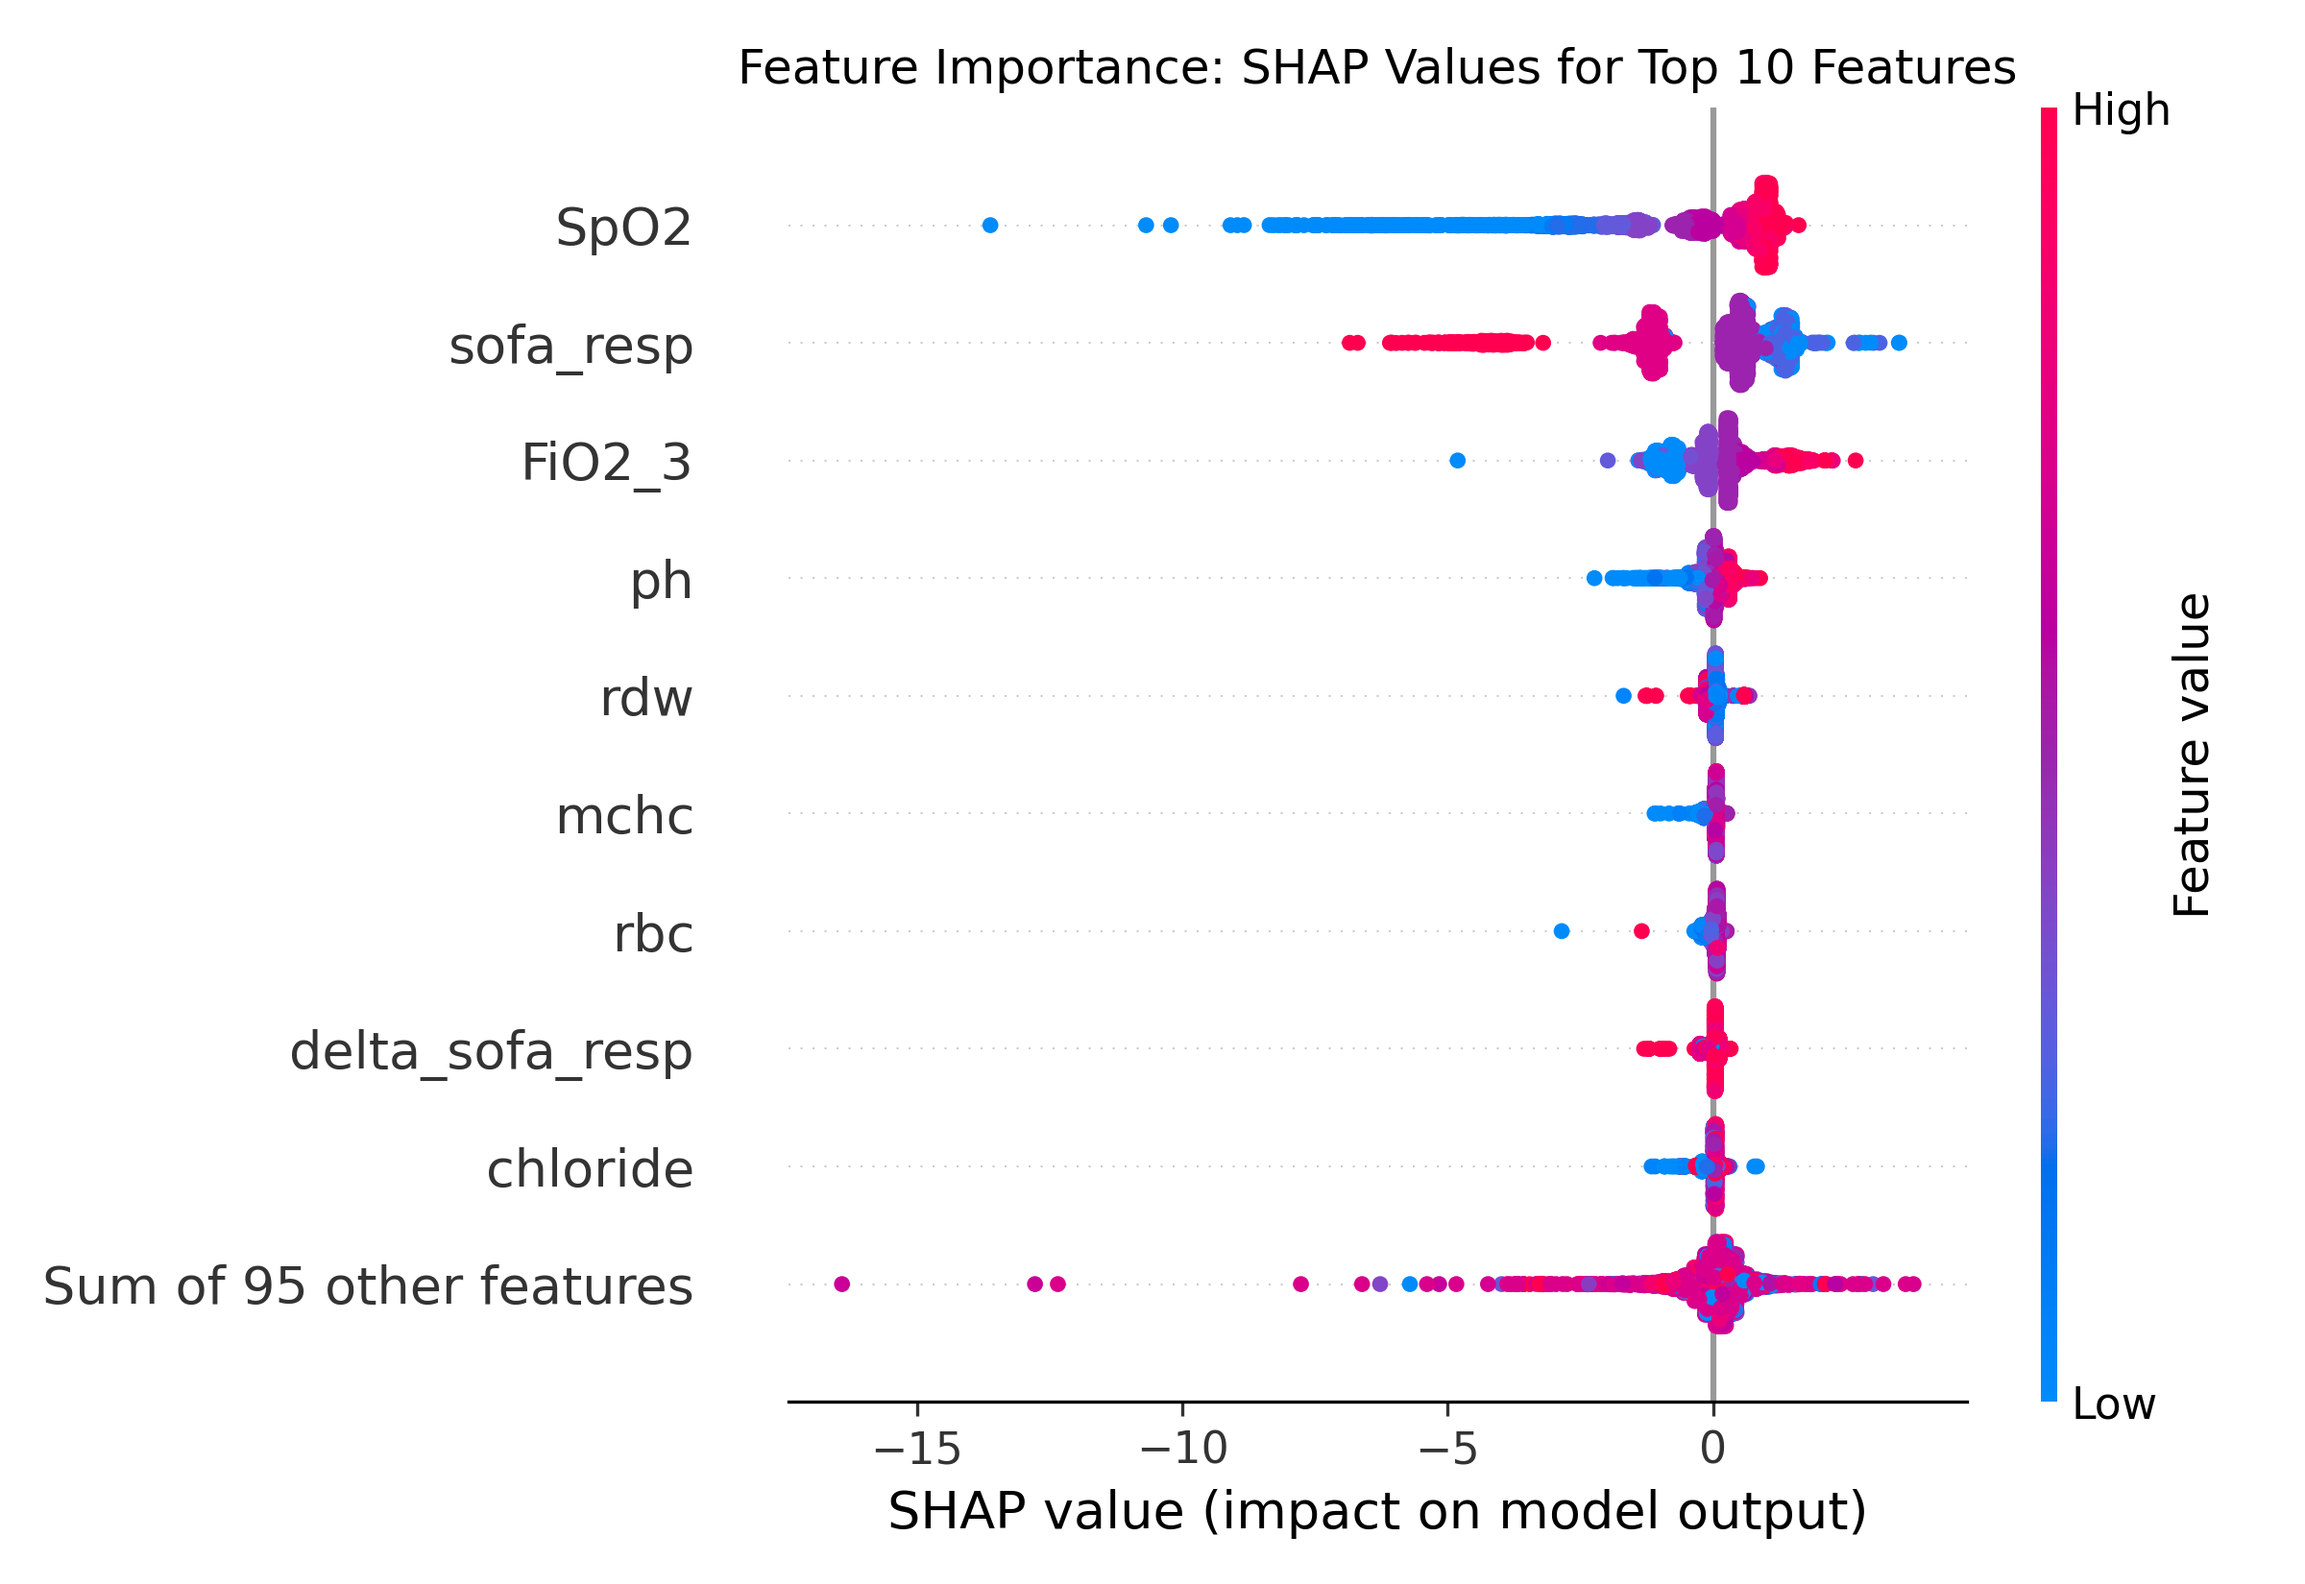
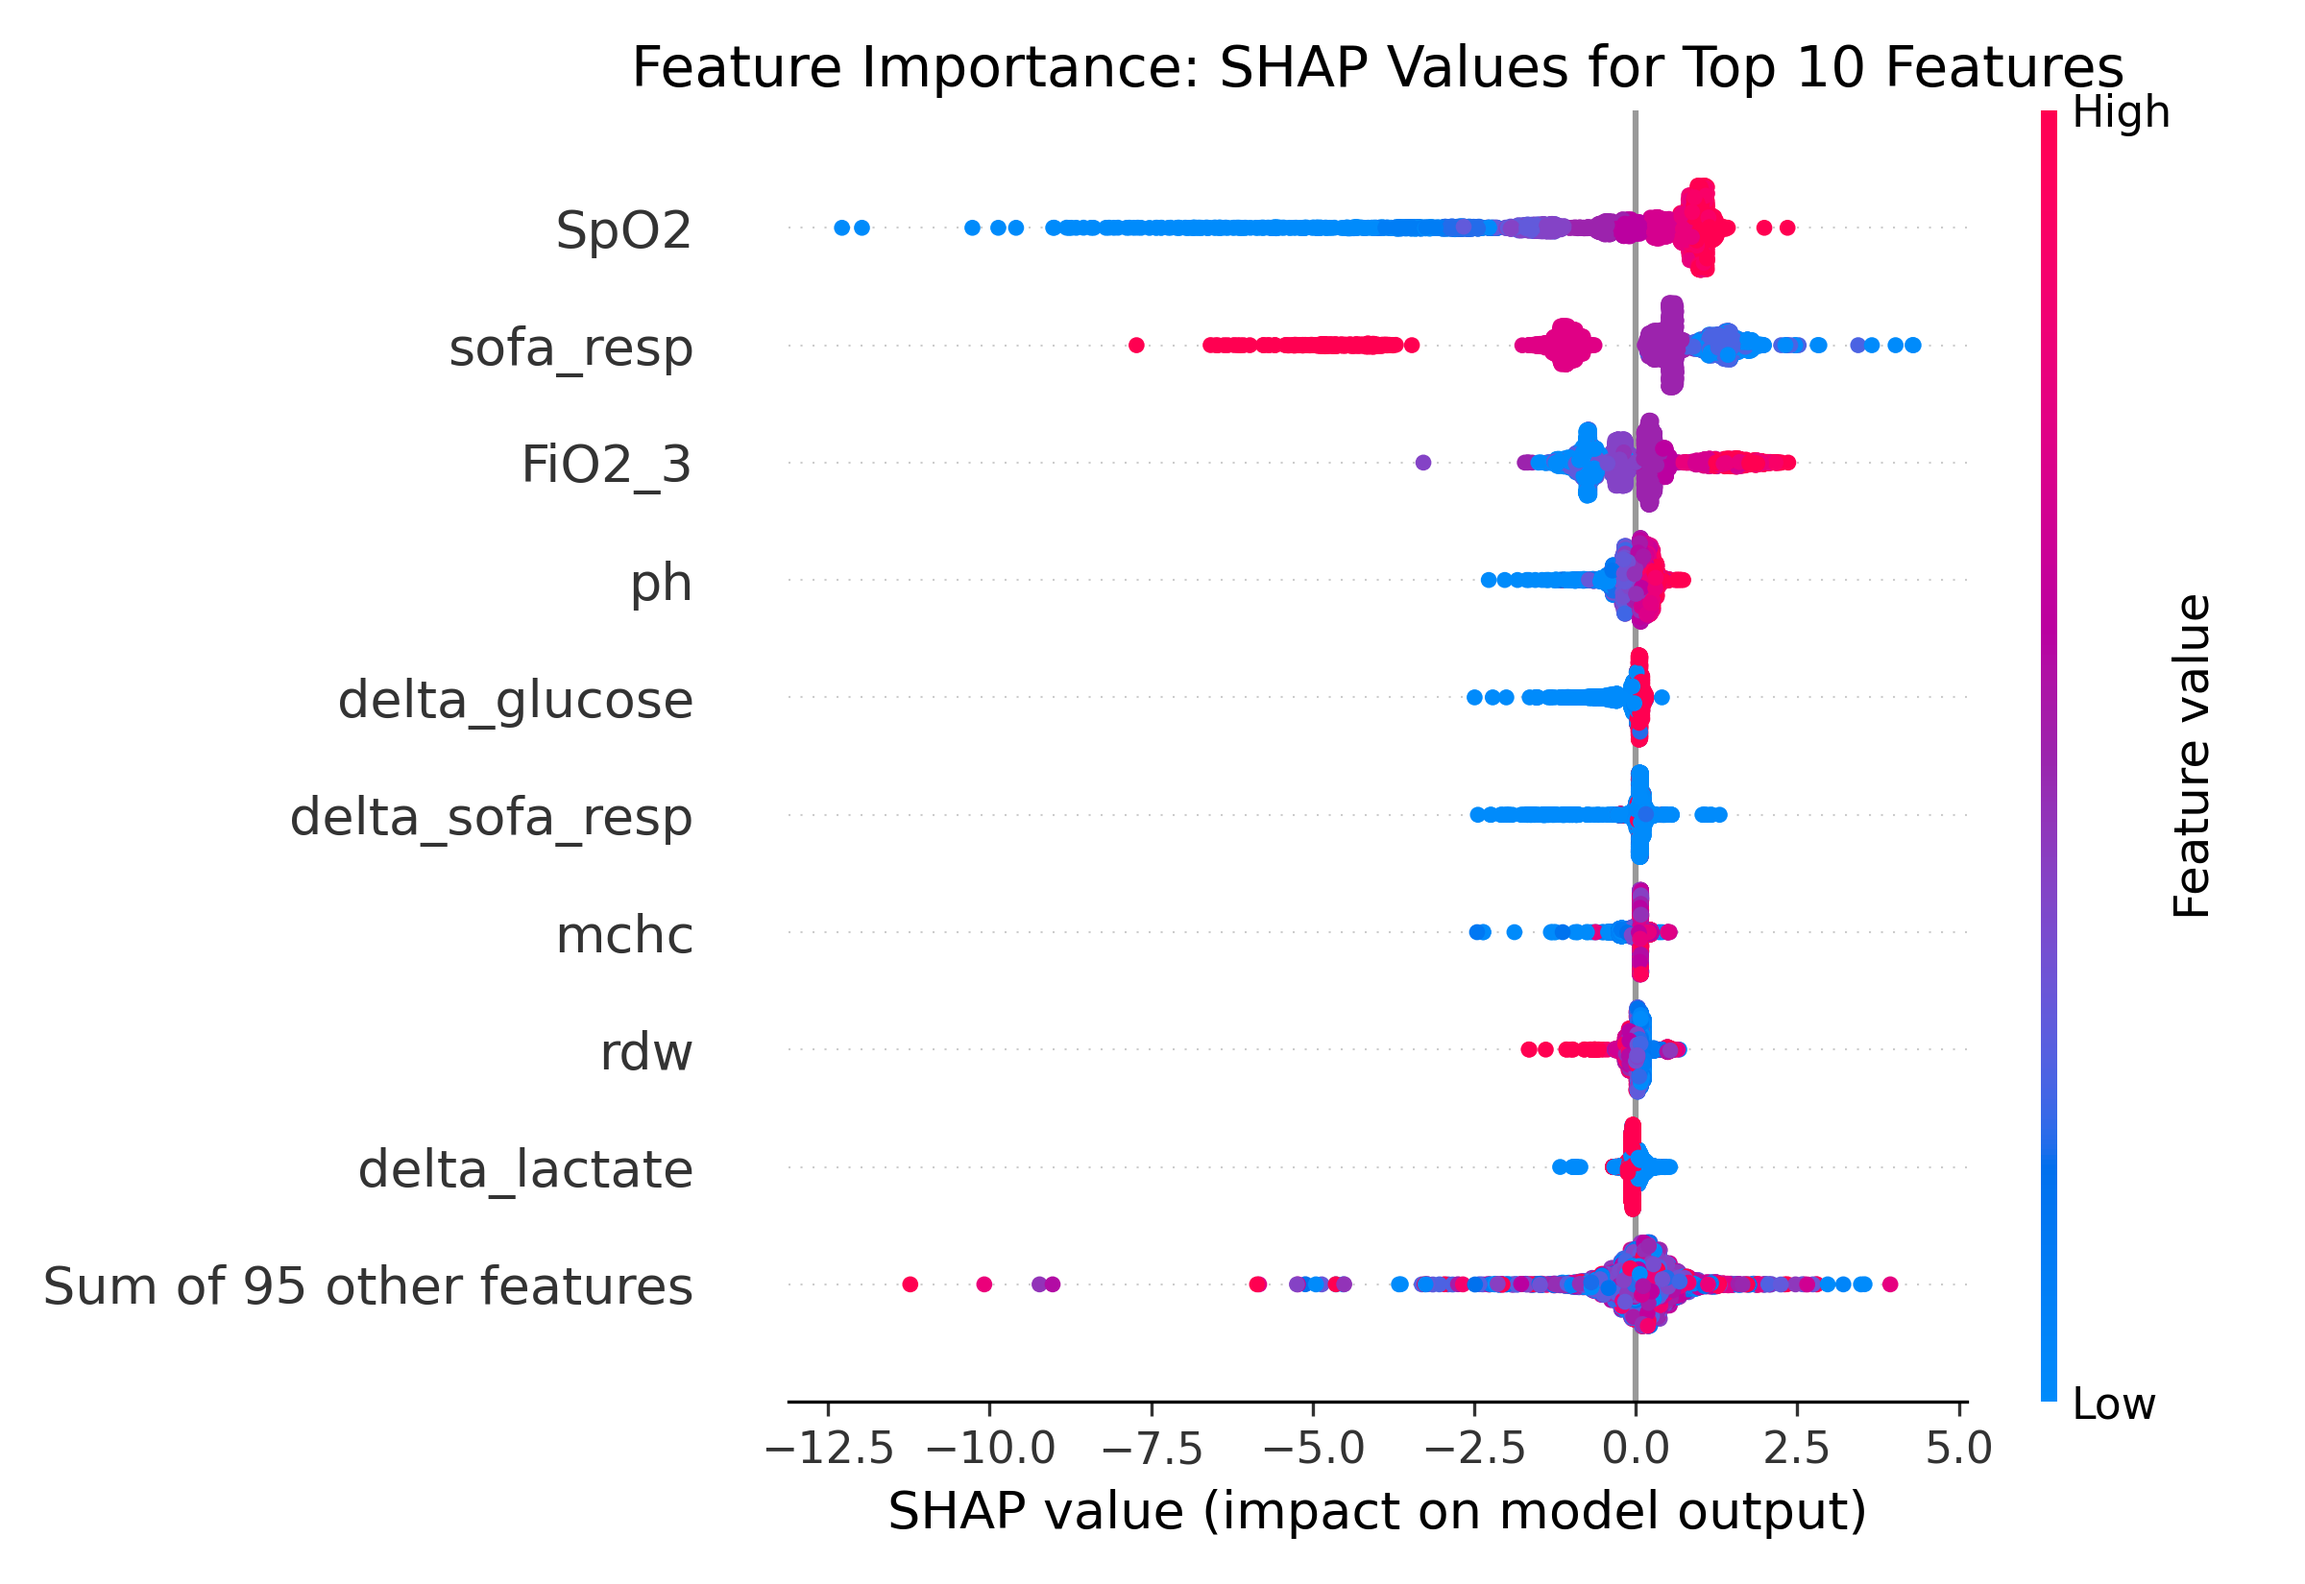
Fix equation for inversion of delta and get new results

diff --git a/results/xgbr_wSOFA.tex b/results/xgbr_wSOFA.tex
@@ -7,13 +7,13 @@ Baseline R²     &  -0.669 &   0.313 &    -0.057 &  -0.002 &   -0.032 &   -0.011
 Baseline Adj R² & -35.380 &  -0.160 &    -4.285 &  -0.148 &   -0.073 &   -0.037 \\
 Baseline RMSE   &   3.846 &   2.930 &     3.232 &   3.790 &    3.361 &    3.436 \\
 Baseline HH     &   1.000 &   1.000 &     2.000 &  23.000 &   47.000 &   74.000 \\
-Model R²        &   0.274 &   0.648 &     0.440 &   0.615 &    0.434 &    0.492 \\
-Model Adj R²    & -14.819 &   0.406 &    -1.802 &   0.559 &    0.412 &    0.479 \\
-Model RMSE      &   2.536 &   2.097 &     2.353 &   2.350 &    2.489 &    2.436 \\
-Model HH        &   1.000 &   1.000 &     3.000 &  15.000 &   44.000 &   64.000 \\
-Delta R²        &   0.943 &   0.335 &     0.497 &   0.617 &    0.466 &    0.503 \\
-Delta Adj R²    &  20.561 &   0.566 &     2.483 &   0.707 &    0.484 &    0.516 \\
-Delta RMSE      &  -1.310 &  -0.834 &    -0.878 &  -1.440 &   -0.872 &   -1.000 \\
-Delta HH        &   0.000 &   0.000 &     1.000 &  -8.000 &   -3.000 &  -10.000 \\
+Model R²        &   0.218 &   0.676 &     0.468 &   0.628 &    0.462 &    0.515 \\
+Model Adj R²    & -16.055 &   0.453 &    -1.659 &   0.574 &    0.441 &    0.502 \\
+Model RMSE      &   2.633 &   2.012 &     2.292 &   2.310 &    2.426 &    2.381 \\
+Model HH        &   1.000 &   2.000 &     2.000 &  18.000 &   44.000 &   67.000 \\
+Delta R²        &   0.886 &   0.363 &     0.525 &   0.630 &    0.495 &    0.526 \\
+Delta Adj R²    &  19.325 &   0.613 &     2.626 &   0.722 &    0.514 &    0.539 \\
+Delta RMSE      &  -1.213 &  -0.918 &    -0.939 &  -1.480 &   -0.936 &   -1.056 \\
+Delta HH        &   0.000 &   1.000 &     0.000 &  -5.000 &   -3.000 &   -7.000 \\
 \bottomrule
 \end{tabular}

diff --git a/results/xgbr_wSOFA_MSE.tex b/results/xgbr_wSOFA_MSE.tex
@@ -7,13 +7,13 @@ Baseline R²     &  -0.669 &   0.313 &    -0.057 &  -0.002 &   -0.032 &   -0.011
 Baseline Adj R² & -35.380 &  -0.160 &    -4.285 &  -0.148 &   -0.073 &   -0.037 \\
 Baseline RMSE   &   3.846 &   2.930 &     3.232 &   3.790 &    3.361 &    3.436 \\
 Baseline HH     &   1.000 &   1.000 &     2.000 &  23.000 &   47.000 &   74.000 \\
-Model R²        &   0.386 &   0.728 &     0.498 &   0.663 &    0.486 &    0.546 \\
-Model Adj R²    & -12.379 &   0.541 &    -1.509 &   0.614 &    0.466 &    0.534 \\
-Model RMSE      &   2.332 &   1.843 &     2.227 &   2.198 &    2.373 &    2.303 \\
-Model HH        &   1.000 &   1.000 &     2.000 &  25.000 &   51.000 &   80.000 \\
-Delta R²        &   1.055 &   0.415 &     0.555 &   0.665 &    0.518 &    0.557 \\
-Delta Adj R²    &  23.001 &   0.701 &     2.776 &   0.762 &    0.538 &    0.571 \\
-Delta RMSE      &  -1.514 &  -1.088 &    -1.005 &  -1.592 &   -0.989 &   -1.134 \\
-Delta HH        &   0.000 &   0.000 &     0.000 &   2.000 &    4.000 &    6.000 \\
+Model R²        &   0.218 &   0.676 &     0.468 &   0.628 &    0.462 &    0.515 \\
+Model Adj R²    & -16.055 &   0.453 &    -1.659 &   0.574 &    0.441 &    0.502 \\
+Model RMSE      &   2.633 &   2.012 &     2.292 &   2.310 &    2.426 &    2.381 \\
+Model HH        &   1.000 &   2.000 &     2.000 &  18.000 &   44.000 &   67.000 \\
+Delta R²        &   0.886 &   0.363 &     0.525 &   0.630 &    0.495 &    0.526 \\
+Delta Adj R²    &  19.325 &   0.613 &     2.626 &   0.722 &    0.514 &    0.539 \\
+Delta RMSE      &  -1.213 &  -0.918 &    -0.939 &  -1.480 &   -0.936 &   -1.056 \\
+Delta HH        &   0.000 &   1.000 &     0.000 &  -5.000 &   -3.000 &   -7.000 \\
 \bottomrule
 \end{tabular}

diff --git a/results/xgbr_woSOFA.tex b/results/xgbr_woSOFA.tex
@@ -7,13 +7,13 @@ Baseline R²     &  -0.669 &   0.313 &    -0.057 &  -0.002 &   -0.032 &   -0.011
 Baseline Adj R² & -24.986 &  -0.144 &    -3.908 &  -0.145 &   -0.072 &   -0.036 \\
 Baseline RMSE   &   3.846 &   2.930 &     3.232 &   3.790 &    3.361 &    3.436 \\
 Baseline HH     &   1.000 &   1.000 &     2.000 &  23.000 &   47.000 &   74.000 \\
-Model R²        &   0.217 &   0.497 &     0.158 &   0.420 &    0.348 &    0.371 \\
-Model Adj R²    & -11.190 &   0.162 &    -2.907 &   0.338 &    0.323 &    0.355 \\
-Model RMSE      &   2.634 &   2.507 &     2.883 &   2.883 &    2.672 &    2.712 \\
-Model HH        &   2.000 &   1.000 &     3.000 &  16.000 &   51.000 &   73.000 \\
-Delta R²        &   0.886 &   0.184 &     0.216 &   0.422 &    0.380 &    0.381 \\
-Delta Adj R²    &  13.795 &   0.307 &     1.001 &   0.483 &    0.395 &    0.391 \\
-Delta RMSE      &  -1.212 &  -0.423 &    -0.348 &  -0.907 &   -0.689 &   -0.725 \\
-Delta HH        &   1.000 &   0.000 &     1.000 &  -7.000 &    4.000 &   -1.000 \\
+Model R²        &   0.179 &   0.497 &     0.099 &   0.432 &    0.361 &    0.379 \\
+Model Adj R²    & -11.788 &   0.161 &    -3.184 &   0.351 &    0.336 &    0.363 \\
+Model RMSE      &   2.698 &   2.508 &     2.984 &   2.854 &    2.646 &    2.693 \\
+Model HH        &   2.000 &   1.000 &     2.000 &  22.000 &   50.000 &   77.000 \\
+Delta R²        &   0.848 &   0.183 &     0.156 &   0.434 &    0.393 &    0.390 \\
+Delta Adj R²    &  13.197 &   0.306 &     0.724 &   0.496 &    0.408 &    0.400 \\
+Delta RMSE      &  -1.148 &  -0.422 &    -0.248 &  -0.936 &   -0.716 &   -0.743 \\
+Delta HH        &   1.000 &   0.000 &     0.000 &  -1.000 &    3.000 &    3.000 \\
 \bottomrule
 \end{tabular}

diff --git a/src/7A_xgbr.py b/src/7A_xgbr.py
@@ -12,19 +12,19 @@ y_test = pd.read_csv('data/ML/y_test.csv')[['SaO2']]
 
 # weights = pd.read_csv('data/ML/y_train.csv')[['hidden_hypoxemia']] * .9 + .1 # HH count 10x more
 
-withSOFA = True
+withSOFA = False
 
 if withSOFA:
-    model_name = "xgbr_wSOFA_MSE"
+    model_name = "xgbr_wSOFA"
 else:
-    model_name = "xgbr_woSOFA_MSE"
+    model_name = "xgbr_woSOFA"
     X_train = X_train.drop(columns=['sofa_resp'])
     X_train = X_train.drop(columns=['delta_sofa_resp'])
     X_test = X_test.drop(columns=['sofa_resp'])
     X_test = X_test.drop(columns=['delta_sofa_resp'])
 
 # fit the XGBoost regressor with the best hyperparameters - loaded afer 7A1
-best_params = {#"objective": assym_loss,
+best_params = {"objective": assym_loss,
                "colsample_bytree": 0.9,
                "gamma": 1.5,
                "max_depth": 3,

diff --git a/src/4_missingness.py b/src/4_missingness.py
@@ -55,6 +55,7 @@ midpoint_map = {
     'chloride': 101.0,
     'creatinine': 0.9,
     'glucose': 84.5,
+    'glucose_lab': 84.5,
     'sodium': 140.0,
     'potassium': 4.25,
     'ph': 7.4,
@@ -88,7 +89,7 @@ deltas = ['delta_FiO2_0', 'delta_FiO2_2', 'delta_FiO2_3', 'delta_FiO2_4',
 
 # get the inverse for the deltas -> the higher the delta the less accurate the feature is
 for d in deltas:
-    data[d] = data[d].apply(lambda x: 1/x if x != 0 else 1)
+    data[d] = data[d].apply(lambda x: 1/(1 + x**2) if x != 0 else 1)
 
 # impute missing data with 0 for the deltas
 data[deltas] = data[deltas].fillna(0)

diff --git a/src/8_shap.py b/src/8_shap.py
@@ -28,7 +28,7 @@ shap_values = explainer(X_test)
 # plot the SHAP values for each feature
 fig, ax = plt.subplots(figsize=(6, 8))
 shap.plots.beeswarm(shap_values, max_display=10, show=False)
-plt.title("Feature Importance: SHAP Values for Top 10 Features")
+plt.title("Feature Importance: SHAP Values for Top 10 Features", fontsize=14)
 plt.tight_layout()
 plt.savefig(f'results/shap_{model_name}.png', dpi=300)
 

diff --git a/src/9_plot_results.py b/src/9_plot_results.py
@@ -66,7 +66,7 @@ def plot_results(model_name):
     axs[2].legend(loc='upper left', bbox_to_anchor=(1.05, .6))
 
     # add a title and save the figure
-    plt.suptitle(f'SaO2 - SpO2 Correction Model', fontsize=16)
+    plt.suptitle(f'SaO2 - SpO2 Correction Model', fontsize=14)
     plt.tight_layout()
     plt.savefig(f'results/{model_name}.png', dpi=300)
 
